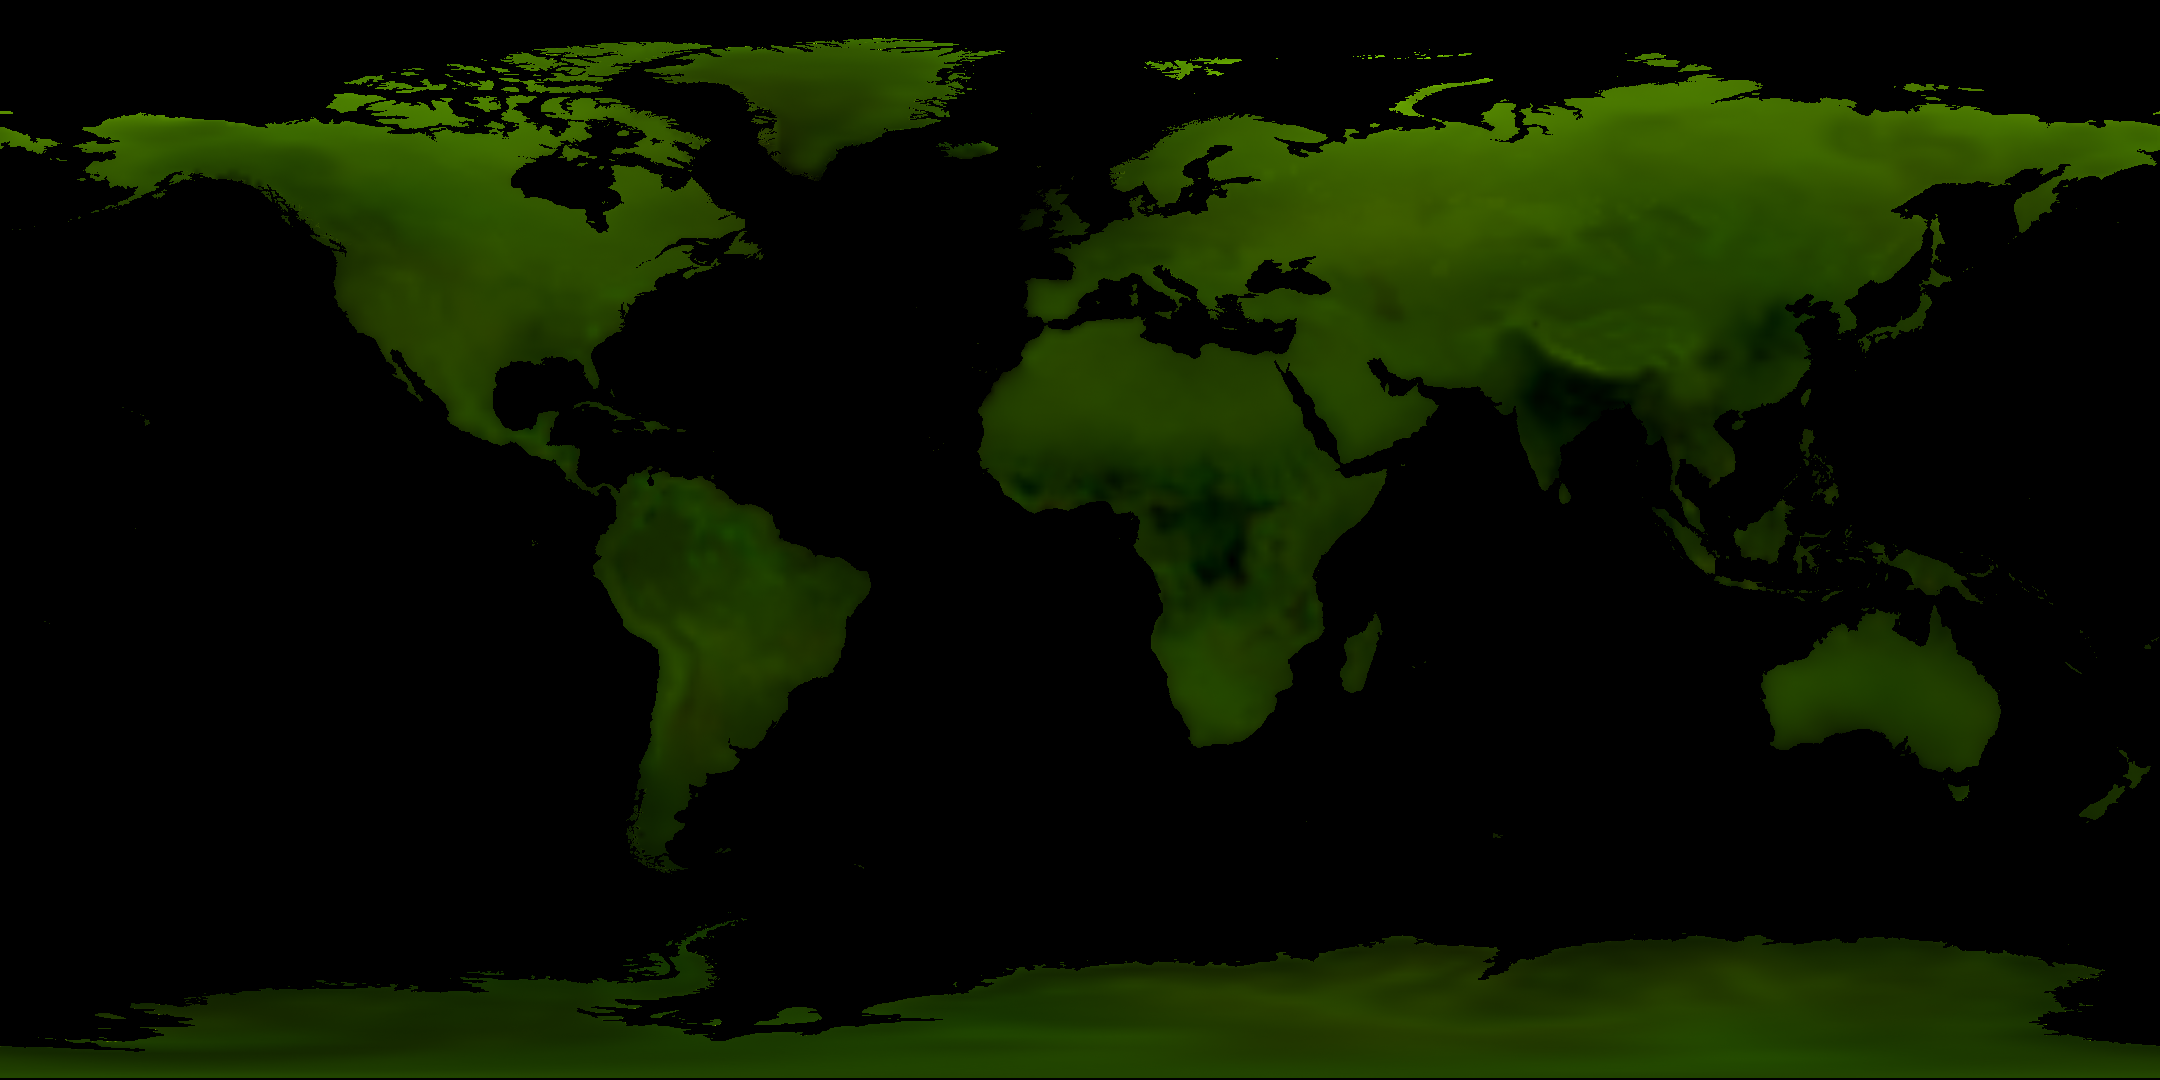
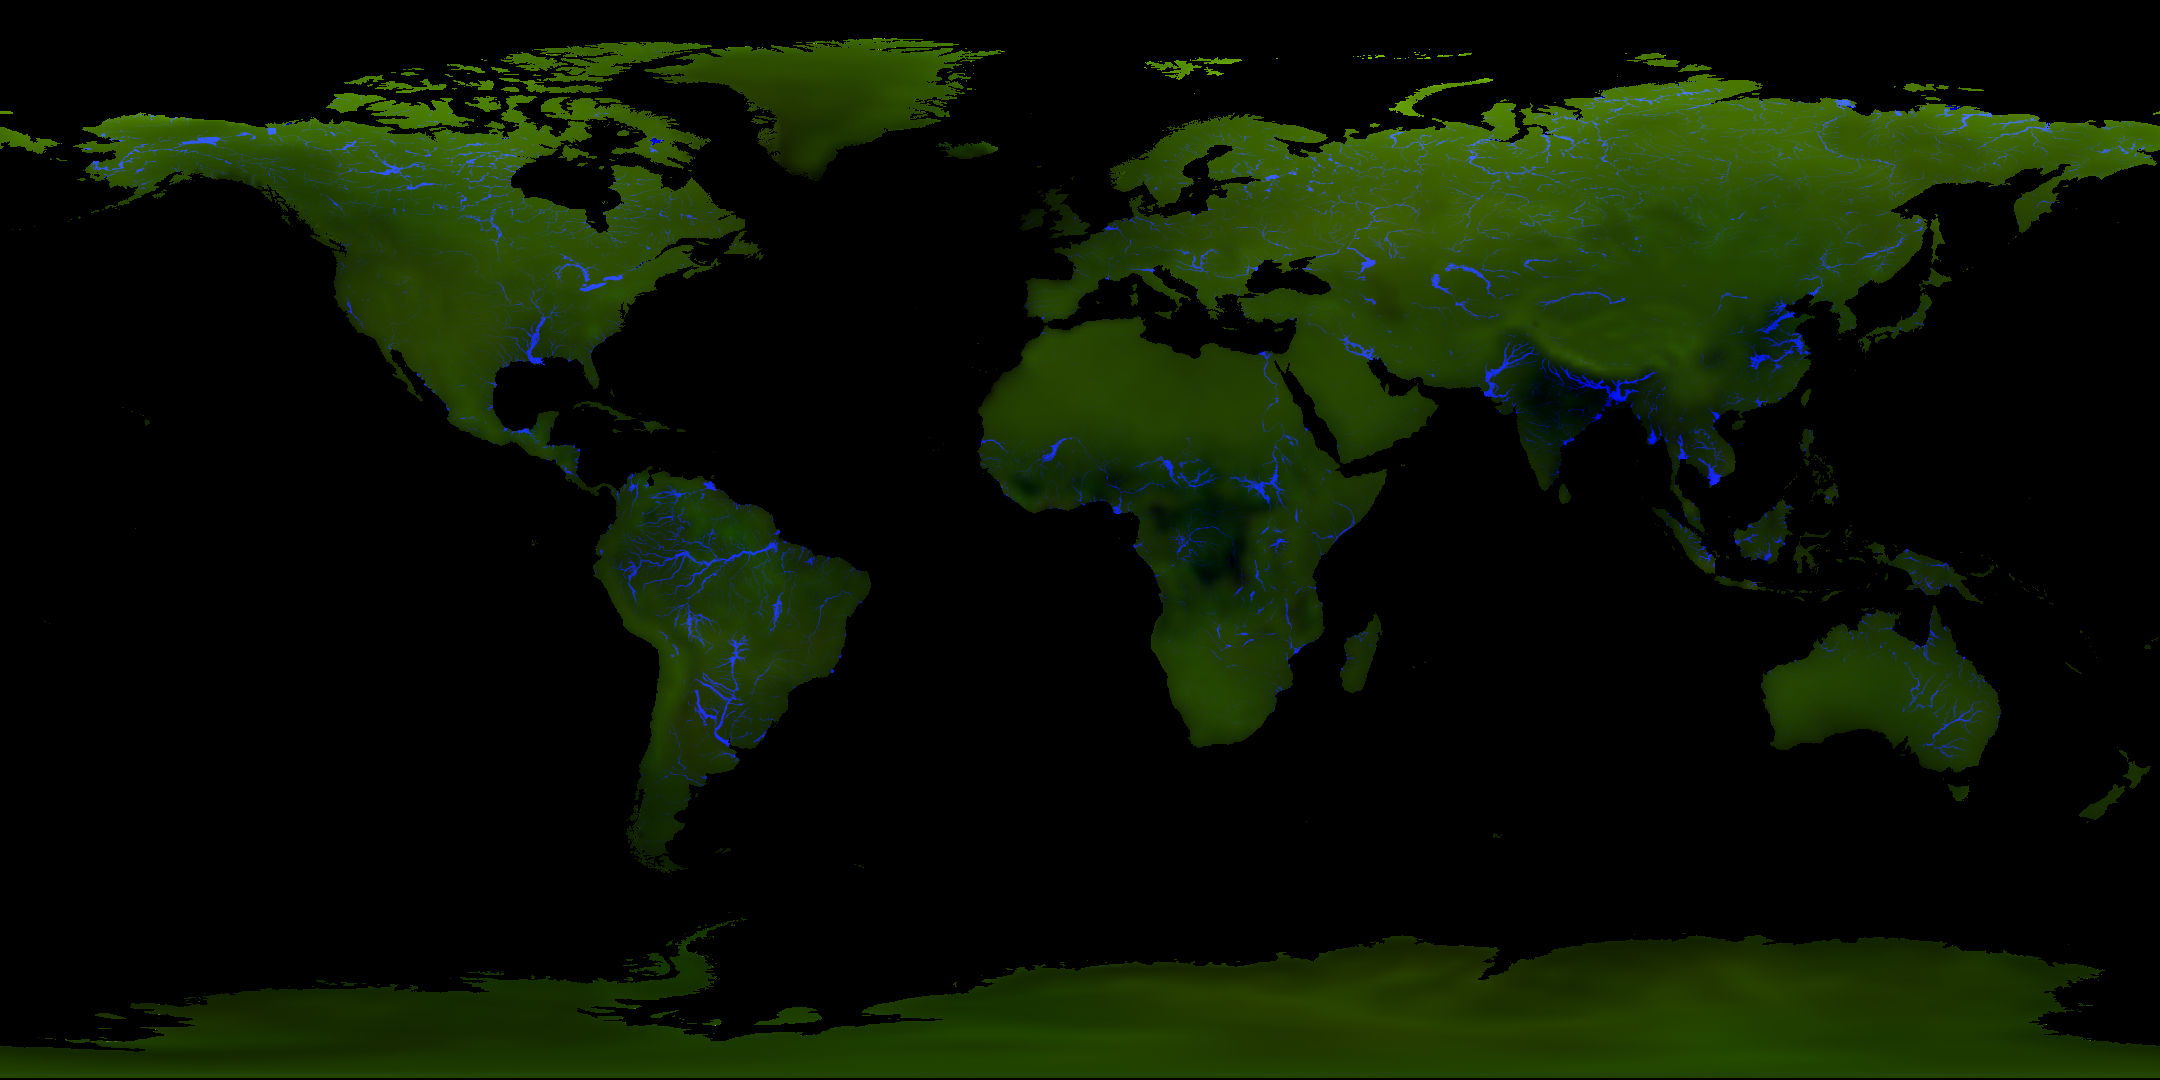
Inondation fluviale : le globe et la fiche lisent enfin la meme carte
Le calque « inondation fluviale » etait une heuristique — proximite d un
trace Natural Earth multipliee par la pluie du bassin — alors que la
fiche lisait la carte JRC de crue centennale, et que l interface
creditait JRC pour les deux. Deux sources sous un seul nom, avec 255
agglomerations de plus d un million a 0 % de crue dans la fiche pendant
que le globe y allumait un fleuve.

La carte JRC (41 616 x 16 468, 30 secondes d arc) est desormais
rasterisee a la grille du globe : chaque texel porte la part de ses
terres en zone de crue centennale, dans le canal bleu de grille_d.png.
Le calque la lit, la fiche la lit : une source, un nom, et la ligne
« JRC Global River Flood Hazard » de la pedagogie devient vraie.

Le zero n est pas silencieux : la carte JRC s arrete a 54°S, 83°N et
-167° de longitude. Ces 26,6 % de texels portent la valeur 0 reservee a
« hors couverture » et le calque y reste eteint, plutot que de peindre
un « aucun risque » qui n a pas ete mesure.

Les traces de fleuves Natural Earth restent dans la scene mais ne
portent plus le nom d une carte d inondation.

diff --git a/index.html b/index.html
@@ -912,6 +912,7 @@ const uniformsGlobe = {
   uSecheresse: { value: 0 }, uMer:    { value: 0 }, uStabilite: { value: 0 },
   uDeclin: { value: 0 },
   uEveil:  { value: 0 },     // 0 = intro sombre derrière le voile, 1 = éveillé
+  uCrue:   { value: 0 },     // calque « inondation fluviale » : carte JRC, la MEME que la fiche
   uIndice: { value: 1 },     // teinte ambiante de sévérité quand aucun calque
   uA2026: { value: texA2026 }, uA2050: { value: texA2050 },
   uB2026: { value: texB2026 }, uB2050: { value: texB2050 },
@@ -931,7 +932,7 @@ const matGlobe = new THREE.ShaderMaterial({
     }`,
   fragmentShader: /* glsl */`
     uniform sampler2D uMap; uniform sampler2D uMasque;
-    uniform float uTemps, uProgression, uChaleur, uSecheresse, uMer, uStabilite, uDeclin, uEveil, uIndice;
+    uniform float uTemps, uProgression, uChaleur, uSecheresse, uMer, uStabilite, uDeclin, uEveil, uIndice, uCrue;
     uniform vec3 uSoleil;
     uniform sampler2D uA2026, uA2050, uB2026, uB2050, uC, uD;
     varying vec3 vN; varying vec3 vP; varying vec2 vUv; varying vec3 vPm;
@@ -1036,6 +1037,22 @@ const matGlobe = new THREE.ShaderMaterial({
         vec3 vide = mix(vec3(gris * 0.5), vec3(0.55, 0.47, 0.78), 0.75);
         col = mix(col, vide, m * uDeclin);
         col += vec3(0.42, 0.34, 0.66) * m * uDeclin * 0.35;
+      }
+
+      /* R-06 INONDATION FLUVIALE : part des terres en zone de crue centennale,
+         carte JRC rasterisée (canal bleu de uD). 0 = HORS COUVERTURE, jamais
+         « aucun risque » : au-delà de 54°S et sous −167° la carte n'existe pas
+         et la couche reste éteinte plutôt que rassurante. */
+      if (uCrue > 0.001){
+        float jrc = texture2D(uD, vUv).b;
+        if (jrc > 0.002){
+          float f = (jrc * 255.0 - 1.0) / 254.0;
+          float m = smoothstep(0.02, 0.35, f) * terre;
+          float onde = 0.75 + 0.25 * sin(uTemps * 0.9 + vUv.x * 60.0);
+          vec3 bleu = vec3(0.44, 0.64, 1.0);
+          col = mix(col, bleu * onde, m * uCrue * 0.72);
+          col += bleu * (smoothstep(0.02, 0.10, f) - smoothstep(0.20, 0.55, f)) * terre * uCrue * 0.5;
+        }
       }
 
       // teinte ambiante : la sévérité composite ombre la terre quand aucun
@@ -1217,6 +1234,9 @@ fetch('./data/rivers.json').then(r => r.json()).then(fleuves => {
       }`,
   })));
 });
+/* Ces lignes sont le TRACE des grands fleuves (Natural Earth), pas une carte
+   d'inondation : elles ne portent plus le calque « inondation fluviale », qui
+   lit desormais la meme carte JRC que la fiche. */
 groupeFleuves.visible = false;
 scene.add(groupeFleuves);
 
@@ -1409,7 +1429,7 @@ const CALQUES = {
   feux:       { uniforme: feuxUniforms.uIntensite,   son: 'layer_on', objet: feux },
   secheresse: { uniforme: uniformsGlobe.uSecheresse, son: 'layer_on' },
   mer:        { uniforme: uniformsGlobe.uMer,        son: 'layer_on' },
-  fleuves:    { uniforme: fleuvesUniforms.uCrue,     son: 'layer_on', objet: groupeFleuves },
+  fleuves:    { uniforme: uniformsGlobe.uCrue,       son: 'layer_on' },
   stabilite:  { uniforme: uniformsGlobe.uStabilite,  son: 'layer_on' },
   declin:     { uniforme: uniformsGlobe.uDeclin,     son: 'layer_on' },
 };
